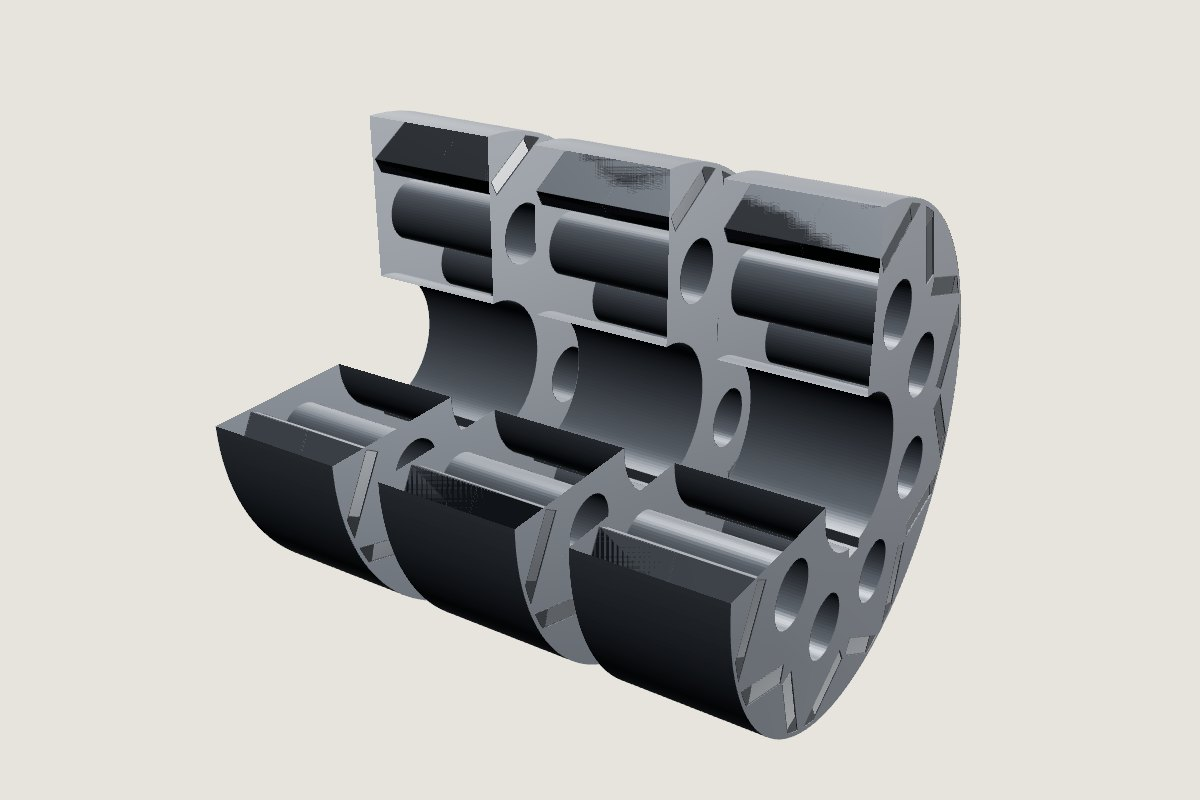
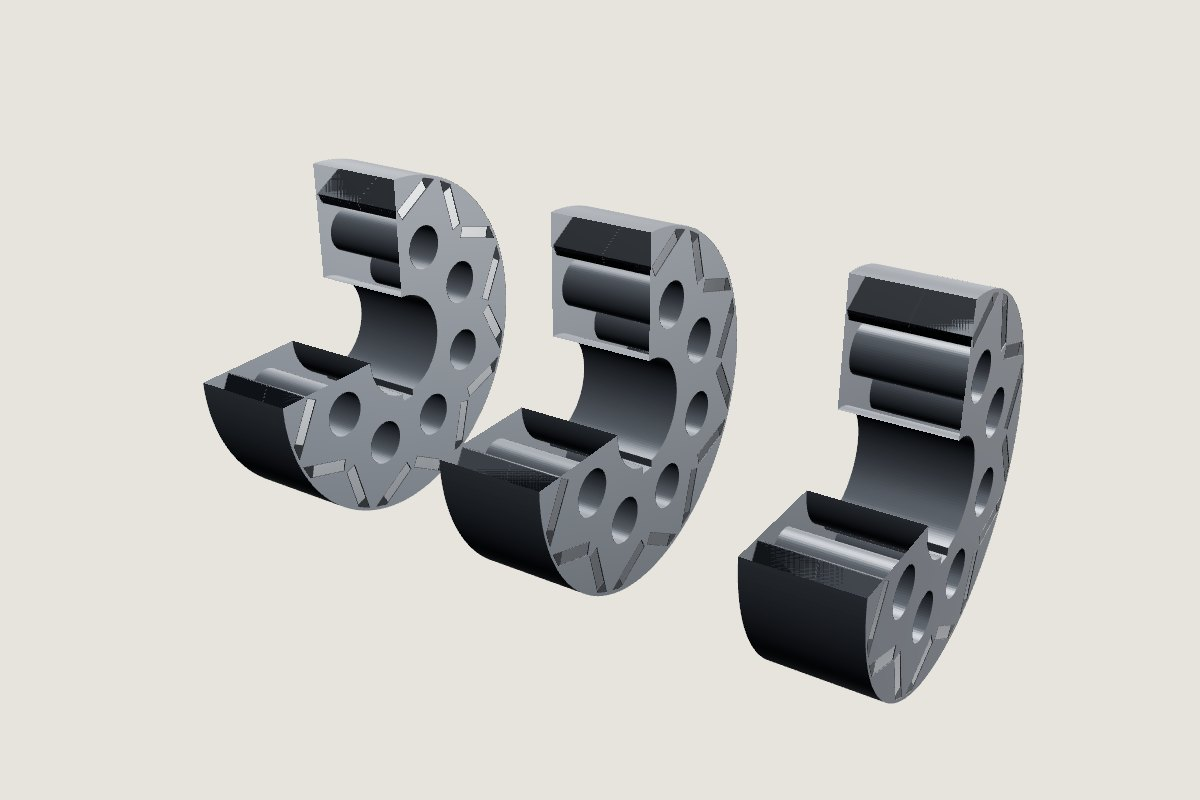
Fill each rotor packet on its own before the shaft step
Packets stay apart through stacking, insertion and fixing; magnets enter
each packet from its own end, never through another packet. Skewed
packets' pockets do not line up, so a real line fills them separately.

Claude-Session: https://claude.ai/code/session_01Y4hstFnhRtAf2N9WGiUmcw

diff --git a/ev-traction-motor/rotor/index.html b/ev-traction-motor/rotor/index.html
@@ -89,7 +89,7 @@
 <path d="M486 76 C520 76 548 78 566 90 S590 124 600 126" fill="none" stroke="#C0703A" stroke-width="2"/><path d="M486 96 L600 120" fill="none" stroke="#8FAFC1" stroke-width="1.5"/>
 <text x="470" y="186">4 measure: B-H loop,</text><text x="470" y="200">flux per piece,</text><text x="470" y="214">size, coating</text>
 <text x="24" y="268" class="t">Machining scrap and grinding swarf go back to recycling.</text>
-</svg><figcaption><span class="mono">DIAGRAM</span> Slicing, grain-boundary diffusion, coating and inspection make blocks into traction magnets.</figcaption></figure></article><article class="hp-step" id="step-04"><div class="hp-copy"><div class="rung-top"><span class="step">04</span><span class="chip ok">On our model</span></div><h3>Stack the core segments</h3><p>The rotor core is a stack of electrical-steel laminations, punched with the magnet pockets. Each pole has a V of two pockets; between the pockets and the rotor surface only a thin bridge of steel remains, and a rib joins the two halves of the V. Both are compromises: thin bridges and ribs leak less magnet flux, thick ones hold the magnets at speed.</p><p>Our EV rotor is Ø132.5 × 120 mm, sized to the 48-slot hairpin stator with a 0.75 mm air gap. Its bridges are 1.2 mm, the centre ribs 1.6 mm, and 3.8 mm of steel stays between neighbouring poles. It is stacked as 3 packets of 40 mm, one for each skew step, with eight Ø17 mm holes to take mass out where the flux does not go.</p></div><figure><img src="images/step-04-stack.jpg" alt="Three rotor lamination packets with V pockets dropping into place" width="1200" height="800"><figcaption><span class="mono">MODEL</span> Three packets, one per skew step, each with 16 pockets and 8 lightening holes.</figcaption></figure></article><article class="hp-step" id="step-05"><div class="hp-copy"><div class="rung-top"><span class="step">05</span><span class="chip ok">On our model</span></div><h3>Insert the magnets</h3><p>The magnets go in axially, one piece after another, and usually unmagnetised: an unmagnetised piece does not jump to the steel, does not collect chips, and does not mind the heat of the next step. On our rotor each pocket of each packet takes 2 pieces, 17.0 × 4.5 × 19.6 mm: 96 pieces and 1.1 kg of NdFeB in all.</p><p>The pieces are short on purpose. The inverter's harmonics induce eddy currents in a conducting magnet, and cutting it raises the resistance of their path (<a class="src" href="https://www.mdpi.com/1996-1073/18/11/2879" target="_blank" rel="noopener" title="Source: Vannest, Partially segmented permanent-magnet losses in interior permanent-magnet motors, Energies 18, 2025">segmentation increases the effective resistance of the eddy-current loop</a>). One 80 kW traction design used <a class="src" href="https://journals.pan.pl/Content/116238/PDF/art_16.pdf" target="_blank" rel="noopener" title="Source: Młot et al., Analysis of IPM motor parameters in an 80-kW traction motor, Archives of Electrical Engineering 69, 2020">six magnet segments along the axis</a> for this reason.</p></div><figure><img src="images/step-05-insert.jpg" alt="Magnet pieces sliding axially into the pockets of the rotor packets" width="1200" height="800" loading="lazy"><figcaption><span class="mono">MODEL</span> Unmagnetised pieces pushed in from one end of each packet.</figcaption></figure></article><article class="hp-step" id="step-06"><div class="hp-copy"><div class="rung-top"><span class="step">06</span><span class="chip ok">On our model</span></div><h3>Fix the magnets</h3><p>A loose magnet rattles and wears; at speed it is pressed outward against the bridge. Adhesive alone can let the magnet move, shed flakes, or <a class="src" href="https://image-ppubs.uspto.gov/dirsearch-public/print/downloadPdf/10432046" target="_blank" rel="noopener" title="Source: US10432046, Rotor, method of manufacturing the same (problems of adhesive-only magnet fixing)">lose its hold above its glass-transition temperature</a>. Many traction rotors therefore inject resin, or transfer-mould an epoxy compound, into the gap around each magnet. Moulding compounds are processed at <a class="src" href="https://www.caplinq.com/emobility/ev-propulsion-systems/magnet-fixing/" target="_blank" rel="noopener" title="Source: Magnet fixing with epoxy moulding compounds, CAPLINQ (trade page)">around 175 °C</a>, one more reason the magnets go in unmagnetised and are <a class="src" href="https://www.caplinq.com/emobility/ev-propulsion-systems/magnet-fixing/" target="_blank" rel="noopener" title="Source: Magnet fixing with epoxy moulding compounds, CAPLINQ (trade page)">magnetised after the rotor is assembled</a>. The cost is resin and time: injection and curing <a class="src" href="https://image-ppubs.uspto.gov/dirsearch-public/print/downloadPdf/11309757" target="_blank" rel="noopener" title="Source: US11309757, Rotor of rotating electrical machine (resin injection: cost and time)">lengthen the manufacturing time</a>.</p><p>Our model leaves 0.2 mm of clearance around each magnet and fills it, with the empty end barriers of the pocket, with resin.</p></div><figure><img src="images/step-06-fix.jpg" alt="Quarter cut of the rotor: magnets held in their pockets by resin" width="1200" height="800" loading="lazy"><figcaption><span class="mono">MODEL</span> Resin fills the clearance and the end barriers of every pocket.</figcaption></figure></article><article class="hp-step" id="step-07"><div class="hp-copy"><div class="rung-top"><span class="step">07</span><span class="chip ok">On our model</span></div><h3>Stack on the shaft with a step skew</h3><p>The packets go onto the keyed shaft, each turned a little from the last. A rotor cannot be skewed smoothly like a cast induction rotor, because the magnets are straight blocks, so it is skewed in steps. Step skew is <a class="src" href="https://www.mdpi.com/2032-6653/14/12/350" target="_blank" rel="noopener" title="Source: Discrete rotor skewing in automotive traction IPM motors, World Electric Vehicle Journal 14(12) 350, 2023">very effective against cogging torque</a>; what it does to torque ripple under load depends on the operating point and has to be checked.</p><p>With 48 slots and 8 poles the cogging torque repeats every 7.5° (360° over the least common multiple of 48 and 8). Our rotor uses 3 steps of 2.5°: 5° in all, two-thirds of that period. The lecture R5 compares one, two and three steps in FEMM.</p></div><figure><img src="images/step-07-skew.jpg" alt="The three packets on the shaft, each turned by one skew step, magnets coloured N and S" width="1200" height="800" loading="lazy"><figcaption><span class="mono">MODEL</span> Three packets, turned 2.5° from each other: 5° in all.</figcaption></figure></article><article class="hp-step" id="step-08"><div class="hp-copy"><div class="rung-top"><span class="step">08</span><span class="chip ok">On our model</span></div><h3>Fit the end plates</h3><p>End plates of non-magnetic stainless steel or aluminium close the stack, hold it axially and keep the resin and magnets in. They are also where the balancing correction goes. On our model they are 5 mm thick and stop 2 mm short of the rotor surface.</p></div><figure><img src="images/step-08-plates.jpg" alt="The rotor with non-magnetic end plates on both ends" width="1200" height="800" loading="lazy"><figcaption><span class="mono">MODEL</span> Non-magnetic end plates close the stack.</figcaption></figure></article><article class="hp-step" id="step-09"><div class="hp-copy"><div class="rung-top"><span class="step">09</span><span class="chip ok">On our model</span></div><h3>Balance</h3><p>The rotor is spun on a balancing machine and the unbalance is corrected in two planes, here by drilling the end plates. Standard electric motors are balanced to <a class="src" href="https://www.fabrico.io/de/blog/iso-21940-balance-quality-grades/" target="_blank" rel="noopener" title="Source: ISO 21940-11 balance quality grades explained, Fabrico">grade G2.5 of ISO 21940-11</a>. The grade is a speed in mm/s, so the allowed unbalance per kilogram is <a class="src" href="https://www.fabrico.io/de/blog/iso-21940-balance-quality-grades/" target="_blank" rel="noopener" title="Source: ISO 21940-11 balance quality grades explained, Fabrico">the grade divided by the angular speed</a>: for a 10 kg rotor running at 12,000 rpm (1257 rad/s) that is 2.0 g·mm per kilogram, 20 g·mm in all. Faster rotors must be balanced finer.</p></div><figure><img src="images/step-09-balance.jpg" alt="End plate with two drilled balancing pockets" width="1200" height="800" loading="lazy"><figcaption><span class="mono">MODEL</span> Mass drilled out of the end plates corrects the unbalance.</figcaption></figure></article><article class="hp-step" id="step-10"><div class="hp-copy"><div class="rung-top"><span class="step">10</span><span class="chip ok">On our model</span></div><h3>Magnetise</h3><p>The assembled rotor goes into a magnetising fixture with one pole shoe and coil per rotor pole, and a capacitor bank discharges through the coils. The field must be strong enough to saturate the magnet, <a class="src" href="https://core.ac.uk/download/4957483.pdf" target="_blank" rel="noopener" title="Source: Post-assembly magnetizing of a hermetic DC compressor motor (component, sub-assembly and post-assembly magnetization)">several times its coercivity</a>, deep inside the rotor and through the steel. This has been shown for exactly our kind of rotor: a <a class="src" href="https://indico.cern.ch/event/763185/contributions/3416400" target="_blank" rel="noopener" title="Source: Wang et al., Post-assembly magnetization of a V-type IPMSM rotor for an electric vehicle (50 kW, 8 poles, 48 slots), MT26">50 kW, 8-pole, 48-slot V-type rotor for an EV, magnetised after assembly</a> in a fixture designed for it.</p><p>Ferrite magnets need far less field and can even be magnetised by the motor's own winding; for NdFeB in an interior rotor, the <a class="src" href="https://content.iospress.com/articles/international-journal-of-applied-electromagnetics-and-mechanics/jae00656" target="_blank" rel="noopener" title="Source: Post-assembly magnetization methods for PM motors (stator winding vs. fixture), Int. J. Applied Electromagnetics and Mechanics, 2004">separate fixture is the proper method</a>.</p></div><figure><img src="images/step-10-magnetise.jpg" alt="The rotor inside a magnetising fixture with one coil per pole" width="1200" height="800" loading="lazy"><figcaption><span class="mono">MODEL</span> One pulse through a fixture around the rotor magnetises all poles.</figcaption></figure></article><article class="hp-step" id="step-11"><div class="hp-copy"><div class="rung-top"><span class="step">11</span><span class="chip">Away from the rotor line · diagram</span></div><h3>Spin test</h3><p>Rotors of a new design, and samples from production, are spun <a class="src" href="https://www.testdevices.com/?p=3338" target="_blank" rel="noopener" title="Source: Proof and overspeed testing, Test Devices by SCHENCK">above the normal operating ceiling</a> in a containment chamber, <a class="src" href="https://www.testdevices.com/?p=3338" target="_blank" rel="noopener" title="Source: Proof and overspeed testing, Test Devices by SCHENCK">typically in a vacuum of about 1 mbar</a>. The diameter and the balance are measured <a class="src" href="https://www.testdevices.com/services/green-mobility/emobility/" target="_blank" rel="noopener" title="Source: eMobility spin testing, Test Devices by SCHENCK">before and after the run</a>: a bridge that yielded shows as a larger diameter, a magnet that moved as a change in balance. The air gap of our rotor is 0.75 mm, so a growth of a few hundredths of a millimetre already matters.</p></div><figure class="diag"><svg class="d" viewBox="0 0 640 300" role="img" aria-label="Spin test: the rotor turns in a vacuum chamber inside a containment ring above its maximum speed; its diameter and balance are checked before and after"><style>.d text{font-family:var(--f-mono);font-size:11px;fill:var(--ink-2)}.d .t{font-size:12px;font-weight:500;fill:var(--ink)}.d .ln{fill:none;stroke:var(--ink-2);stroke-width:1.5}.d .st{fill:var(--surface-2);stroke:var(--ink-2);stroke-width:1.5}.d .mg{fill:#B9BDC2;stroke:#5A6874;stroke-width:1}.d .hot{fill:#E8C9A8;stroke:#8E5A36;stroke-width:1}.d .cu{fill:#C98A5E;stroke:#8E5A36;stroke-width:1}.d .n{fill:#C0703A}.d .s{fill:#5F8FA8}.d .arr{fill:var(--ink-2)}.d .ac{stroke:var(--steel);fill:none;stroke-width:2}</style><defs><marker id="a4" viewBox="0 0 10 10" refX="9" refY="5" markerWidth="7" markerHeight="7" orient="auto"><path d="M0 0L10 5 0 10z" class="arr"/></marker></defs>
+</svg><figcaption><span class="mono">DIAGRAM</span> Slicing, grain-boundary diffusion, coating and inspection make blocks into traction magnets.</figcaption></figure></article><article class="hp-step" id="step-04"><div class="hp-copy"><div class="rung-top"><span class="step">04</span><span class="chip ok">On our model</span></div><h3>Stack the core segments</h3><p>The rotor core is a stack of electrical-steel laminations, punched with the magnet pockets. Each pole has a V of two pockets; between the pockets and the rotor surface only a thin bridge of steel remains, and a rib joins the two halves of the V. Both are compromises: thin bridges and ribs leak less magnet flux, thick ones hold the magnets at speed.</p><p>Our EV rotor is Ø132.5 × 120 mm, sized to the 48-slot hairpin stator with a 0.75 mm air gap. Its bridges are 1.2 mm, the centre ribs 1.6 mm, and 3.8 mm of steel stays between neighbouring poles. It is stacked as 3 packets of 40 mm, one for each skew step, with eight Ø17 mm holes to take mass out where the flux does not go.</p></div><figure><img src="images/step-04-stack.jpg" alt="Three rotor lamination packets with V pockets dropping into place" width="1200" height="800"><figcaption><span class="mono">MODEL</span> Three packets, one per skew step, each with 16 pockets and 8 lightening holes.</figcaption></figure></article><article class="hp-step" id="step-05"><div class="hp-copy"><div class="rung-top"><span class="step">05</span><span class="chip ok">On our model</span></div><h3>Insert the magnets</h3><p>Each packet is filled on its own, before it meets the shaft: once the packets are turned for the skew, their pockets no longer line up, so a magnet could not pass from one packet into the next. The magnets go in axially, one piece after another, and usually unmagnetised: an unmagnetised piece does not jump to the steel, does not collect chips, and does not mind the heat of the next step. On our rotor each pocket of each packet takes 2 pieces, 17.0 × 4.5 × 19.6 mm: 96 pieces and 1.1 kg of NdFeB in all.</p><p>The pieces are short on purpose. The inverter's harmonics induce eddy currents in a conducting magnet, and cutting it raises the resistance of their path (<a class="src" href="https://www.mdpi.com/1996-1073/18/11/2879" target="_blank" rel="noopener" title="Source: Vannest, Partially segmented permanent-magnet losses in interior permanent-magnet motors, Energies 18, 2025">segmentation increases the effective resistance of the eddy-current loop</a>). One 80 kW traction design used <a class="src" href="https://journals.pan.pl/Content/116238/PDF/art_16.pdf" target="_blank" rel="noopener" title="Source: Młot et al., Analysis of IPM motor parameters in an 80-kW traction motor, Archives of Electrical Engineering 69, 2020">six magnet segments along the axis</a> for this reason.</p></div><figure><img src="images/step-05-insert.jpg" alt="Magnet pieces sliding axially into the pockets of the rotor packets" width="1200" height="800" loading="lazy"><figcaption><span class="mono">MODEL</span> Each packet filled on its own: unmagnetised pieces pushed in from its end.</figcaption></figure></article><article class="hp-step" id="step-06"><div class="hp-copy"><div class="rung-top"><span class="step">06</span><span class="chip ok">On our model</span></div><h3>Fix the magnets</h3><p>A loose magnet rattles and wears; at speed it is pressed outward against the bridge. Adhesive alone can let the magnet move, shed flakes, or <a class="src" href="https://image-ppubs.uspto.gov/dirsearch-public/print/downloadPdf/10432046" target="_blank" rel="noopener" title="Source: US10432046, Rotor, method of manufacturing the same (problems of adhesive-only magnet fixing)">lose its hold above its glass-transition temperature</a>. Many traction rotors therefore inject resin, or transfer-mould an epoxy compound, into the gap around each magnet. Moulding compounds are processed at <a class="src" href="https://www.caplinq.com/emobility/ev-propulsion-systems/magnet-fixing/" target="_blank" rel="noopener" title="Source: Magnet fixing with epoxy moulding compounds, CAPLINQ (trade page)">around 175 °C</a>, one more reason the magnets go in unmagnetised and are <a class="src" href="https://www.caplinq.com/emobility/ev-propulsion-systems/magnet-fixing/" target="_blank" rel="noopener" title="Source: Magnet fixing with epoxy moulding compounds, CAPLINQ (trade page)">magnetised after the rotor is assembled</a>. The cost is resin and time: injection and curing <a class="src" href="https://image-ppubs.uspto.gov/dirsearch-public/print/downloadPdf/11309757" target="_blank" rel="noopener" title="Source: US11309757, Rotor of rotating electrical machine (resin injection: cost and time)">lengthen the manufacturing time</a>.</p><p>Our model leaves 0.2 mm of clearance around each magnet and fills it, with the empty end barriers of the pocket, with resin.</p></div><figure><img src="images/step-06-fix.jpg" alt="Quarter cut of the rotor: magnets held in their pockets by resin" width="1200" height="800" loading="lazy"><figcaption><span class="mono">MODEL</span> Resin fills the clearance and the end barriers of every pocket.</figcaption></figure></article><article class="hp-step" id="step-07"><div class="hp-copy"><div class="rung-top"><span class="step">07</span><span class="chip ok">On our model</span></div><h3>Stack on the shaft with a step skew</h3><p>The filled and cured packets go onto the keyed shaft, each turned a little from the last. A rotor cannot be skewed smoothly like a cast induction rotor, because the magnets are straight blocks, so it is skewed in steps. Step skew is <a class="src" href="https://www.mdpi.com/2032-6653/14/12/350" target="_blank" rel="noopener" title="Source: Discrete rotor skewing in automotive traction IPM motors, World Electric Vehicle Journal 14(12) 350, 2023">very effective against cogging torque</a>; what it does to torque ripple under load depends on the operating point and has to be checked.</p><p>With 48 slots and 8 poles the cogging torque repeats every 7.5° (360° over the least common multiple of 48 and 8). Our rotor uses 3 steps of 2.5°: 5° in all, two-thirds of that period. The lecture R5 compares one, two and three steps in FEMM.</p></div><figure><img src="images/step-07-skew.jpg" alt="The three packets on the shaft, each turned by one skew step, magnets coloured N and S" width="1200" height="800" loading="lazy"><figcaption><span class="mono">MODEL</span> Three packets, turned 2.5° from each other: 5° in all.</figcaption></figure></article><article class="hp-step" id="step-08"><div class="hp-copy"><div class="rung-top"><span class="step">08</span><span class="chip ok">On our model</span></div><h3>Fit the end plates</h3><p>End plates of non-magnetic stainless steel or aluminium close the stack, hold it axially and keep the resin and magnets in. They are also where the balancing correction goes. On our model they are 5 mm thick and stop 2 mm short of the rotor surface.</p></div><figure><img src="images/step-08-plates.jpg" alt="The rotor with non-magnetic end plates on both ends" width="1200" height="800" loading="lazy"><figcaption><span class="mono">MODEL</span> Non-magnetic end plates close the stack.</figcaption></figure></article><article class="hp-step" id="step-09"><div class="hp-copy"><div class="rung-top"><span class="step">09</span><span class="chip ok">On our model</span></div><h3>Balance</h3><p>The rotor is spun on a balancing machine and the unbalance is corrected in two planes, here by drilling the end plates. Standard electric motors are balanced to <a class="src" href="https://www.fabrico.io/de/blog/iso-21940-balance-quality-grades/" target="_blank" rel="noopener" title="Source: ISO 21940-11 balance quality grades explained, Fabrico">grade G2.5 of ISO 21940-11</a>. The grade is a speed in mm/s, so the allowed unbalance per kilogram is <a class="src" href="https://www.fabrico.io/de/blog/iso-21940-balance-quality-grades/" target="_blank" rel="noopener" title="Source: ISO 21940-11 balance quality grades explained, Fabrico">the grade divided by the angular speed</a>: for a 10 kg rotor running at 12,000 rpm (1257 rad/s) that is 2.0 g·mm per kilogram, 20 g·mm in all. Faster rotors must be balanced finer.</p></div><figure><img src="images/step-09-balance.jpg" alt="End plate with two drilled balancing pockets" width="1200" height="800" loading="lazy"><figcaption><span class="mono">MODEL</span> Mass drilled out of the end plates corrects the unbalance.</figcaption></figure></article><article class="hp-step" id="step-10"><div class="hp-copy"><div class="rung-top"><span class="step">10</span><span class="chip ok">On our model</span></div><h3>Magnetise</h3><p>The assembled rotor goes into a magnetising fixture with one pole shoe and coil per rotor pole, and a capacitor bank discharges through the coils. The field must be strong enough to saturate the magnet, <a class="src" href="https://core.ac.uk/download/4957483.pdf" target="_blank" rel="noopener" title="Source: Post-assembly magnetizing of a hermetic DC compressor motor (component, sub-assembly and post-assembly magnetization)">several times its coercivity</a>, deep inside the rotor and through the steel. This has been shown for exactly our kind of rotor: a <a class="src" href="https://indico.cern.ch/event/763185/contributions/3416400" target="_blank" rel="noopener" title="Source: Wang et al., Post-assembly magnetization of a V-type IPMSM rotor for an electric vehicle (50 kW, 8 poles, 48 slots), MT26">50 kW, 8-pole, 48-slot V-type rotor for an EV, magnetised after assembly</a> in a fixture designed for it.</p><p>Ferrite magnets need far less field and can even be magnetised by the motor's own winding; for NdFeB in an interior rotor, the <a class="src" href="https://content.iospress.com/articles/international-journal-of-applied-electromagnetics-and-mechanics/jae00656" target="_blank" rel="noopener" title="Source: Post-assembly magnetization methods for PM motors (stator winding vs. fixture), Int. J. Applied Electromagnetics and Mechanics, 2004">separate fixture is the proper method</a>.</p></div><figure><img src="images/step-10-magnetise.jpg" alt="The rotor inside a magnetising fixture with one coil per pole" width="1200" height="800" loading="lazy"><figcaption><span class="mono">MODEL</span> One pulse through a fixture around the rotor magnetises all poles.</figcaption></figure></article><article class="hp-step" id="step-11"><div class="hp-copy"><div class="rung-top"><span class="step">11</span><span class="chip">Away from the rotor line · diagram</span></div><h3>Spin test</h3><p>Rotors of a new design, and samples from production, are spun <a class="src" href="https://www.testdevices.com/?p=3338" target="_blank" rel="noopener" title="Source: Proof and overspeed testing, Test Devices by SCHENCK">above the normal operating ceiling</a> in a containment chamber, <a class="src" href="https://www.testdevices.com/?p=3338" target="_blank" rel="noopener" title="Source: Proof and overspeed testing, Test Devices by SCHENCK">typically in a vacuum of about 1 mbar</a>. The diameter and the balance are measured <a class="src" href="https://www.testdevices.com/services/green-mobility/emobility/" target="_blank" rel="noopener" title="Source: eMobility spin testing, Test Devices by SCHENCK">before and after the run</a>: a bridge that yielded shows as a larger diameter, a magnet that moved as a change in balance. The air gap of our rotor is 0.75 mm, so a growth of a few hundredths of a millimetre already matters.</p></div><figure class="diag"><svg class="d" viewBox="0 0 640 300" role="img" aria-label="Spin test: the rotor turns in a vacuum chamber inside a containment ring above its maximum speed; its diameter and balance are checked before and after"><style>.d text{font-family:var(--f-mono);font-size:11px;fill:var(--ink-2)}.d .t{font-size:12px;font-weight:500;fill:var(--ink)}.d .ln{fill:none;stroke:var(--ink-2);stroke-width:1.5}.d .st{fill:var(--surface-2);stroke:var(--ink-2);stroke-width:1.5}.d .mg{fill:#B9BDC2;stroke:#5A6874;stroke-width:1}.d .hot{fill:#E8C9A8;stroke:#8E5A36;stroke-width:1}.d .cu{fill:#C98A5E;stroke:#8E5A36;stroke-width:1}.d .n{fill:#C0703A}.d .s{fill:#5F8FA8}.d .arr{fill:var(--ink-2)}.d .ac{stroke:var(--steel);fill:none;stroke-width:2}</style><defs><marker id="a4" viewBox="0 0 10 10" refX="9" refY="5" markerWidth="7" markerHeight="7" orient="auto"><path d="M0 0L10 5 0 10z" class="arr"/></marker></defs>
 <rect x="60" y="40" width="260" height="210" rx="10" class="st"/><rect x="76" y="56" width="228" height="178" rx="6" fill="none" stroke="var(--ink-2)" stroke-width="6"/>
 <rect x="186" y="18" width="8" height="70" class="mg"/><text x="200" y="30">flexible drive shaft</text>
 <rect x="132" y="90" width="116" height="90" rx="4" class="mg"/><rect x="140" y="98" width="20" height="74" fill="#C0703A" opacity=".8"/><rect x="167" y="98" width="20" height="74" fill="#5F8FA8" opacity=".8"/><rect x="194" y="98" width="20" height="74" fill="#C0703A" opacity=".8"/><rect x="221" y="98" width="20" height="74" fill="#5F8FA8" opacity=".8"/>

diff --git a/ev-traction-motor/rotor/viewer/index.html b/ev-traction-motor/rotor/viewer/index.html
@@ -195,9 +195,9 @@ const GROUPS = [['core','Core'],['magnet','Magnets'],['resin','Resin'],['shaft',
 const STAGES = {
   ev: [
     {id:'stack', n:'04', t:'Stack the core segments', x:'Laminations with the V pockets, bridges and ribs: one packet per skew step'},
-    {id:'insert', n:'05', t:'Insert the magnets', x:'Coated, unmagnetised blocks pushed axially into the pockets, two pieces per pocket per packet'},
-    {id:'fix', n:'06', t:'Fix the magnets', x:'Resin fills the clearance and the end barriers, then cures'},
-    {id:'skew', n:'07', t:'Stack on the shaft with a step skew', x:'Each packet turned by one skew step as it goes onto the shaft'},
+    {id:'insert', n:'05', t:'Insert the magnets', x:'Each packet filled on its own: once skewed, the pockets of neighbouring packets no longer line up'},
+    {id:'fix', n:'06', t:'Fix the magnets', x:'Resin fills the clearance and the end barriers of each packet, then cures'},
+    {id:'skew', n:'07', t:'Stack on the shaft with a step skew', x:'The filled packets go onto the shaft, each turned by one skew step'},
     {id:'plates', n:'08', t:'Fit the end plates', x:'Non-magnetic plates close the stack and carry the balance mass'},
     {id:'balance', n:'09', t:'Balance', x:'Material drilled from the end plates until the unbalance is within the grade'},
     {id:'magnetise', n:'10', t:'Magnetise', x:'One pulse through a fixture around the rotor magnetises every pole'},
@@ -420,7 +420,7 @@ function applyTime(){
   if (!R) return;
   const N = R.stages.length, t = ui.t == null ? N : ui.t;
   const sStack = idx('stack'), sIns = idx('insert'), sFix = idx('fix'), sSkew = idx('skew'), sPl = idx('plates'), sBal = idx('balance'), sMag = idx('magnetise'), sInto = idx('into');
-  const nSeg = R.segs.length, G = Math.max(14, P.L * 0.12);
+  const nSeg = R.segs.length, segL = P.L / nSeg, G = nSeg > 1 ? segL * 1.25 + 20 : 0;   // packets apart: each is a sub-assembly until the shaft step
   const kClose = ease(clamp01((t - sSkew) * 2 - 1));          // second half of the shaft step: packets close up and take their skew
   const magOn = ease(clamp01((t - sMag - 0.35) / 0.4));       // magnet colour after the pulse
   for (const s of R.segs){
@@ -431,9 +431,9 @@ function applyTime(){
     s.g.position.set((i - (nSeg-1)/2) * G * (1 - kClose), 0, P.R * 2.4 * (1 - drop));
     s.g.rotation.x = s.skew * kClose;
     for (const e of s.mags){
-      const d = ease(clamp01((t - sIns) * 1.4 - (e.pole / P.p) * 0.35 - (e.piece % P.piecesPerStep) * 0.08));
+      const d = ease(clamp01((t - sIns) * 2.2 - e.seg * 0.3 - (e.pole / P.p) * 0.25 - (e.piece % P.piecesPerStep) * 0.08));   // packet by packet
       e.mesh.visible = ui.show.has('magnet') && t > sIns && d > 0.001;
-      e.mesh.position.x = (e.mesh.userData.x ??= e.mesh.position.x) - (P.L * 0.9 + 40) * (1 - d);
+      e.mesh.position.x = (e.mesh.userData.x ??= e.mesh.position.x) - (segL + 24) * (1 - d);   // from the packet's own end, through no other packet
       e.mag = magOn;
     }
     const op = ease(clamp01((t - sFix) * 1.3));
